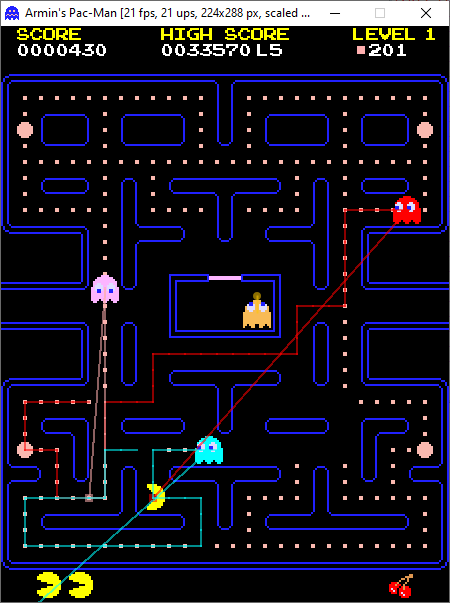
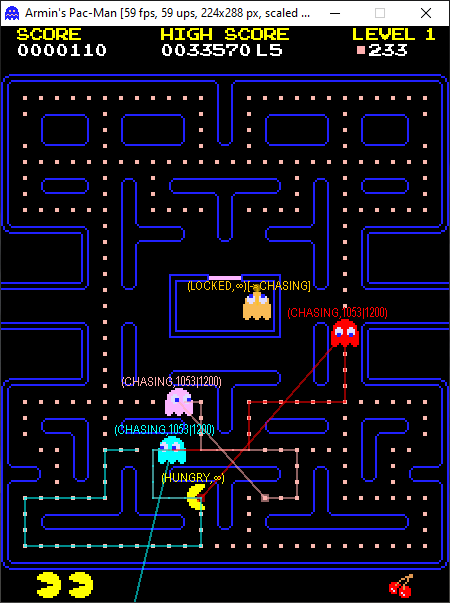
reworked & doc

diff --git a/PacManGame/src/main/java/de/amr/games/pacman/actor/behavior/HeadingForTile.java b/PacManGame/src/main/java/de/amr/games/pacman/actor/behavior/HeadingForTile.java
@@ -6,6 +6,7 @@ import static de.amr.graph.grid.impl.Top4.N;
 import static de.amr.graph.grid.impl.Top4.S;
 import static de.amr.graph.grid.impl.Top4.W;
 
+import java.util.Arrays;
 import java.util.Collections;
 import java.util.LinkedHashSet;
 import java.util.List;
@@ -14,7 +15,7 @@ import java.util.OptionalInt;
 import java.util.Set;
 import java.util.function.Supplier;
 import java.util.stream.Collectors;
-import java.util.stream.IntStream;
+import java.util.stream.Stream;
 
 import de.amr.games.pacman.actor.MazeMover;
 import de.amr.games.pacman.model.Maze;
@@ -26,43 +27,75 @@ import de.amr.graph.grid.impl.Top4;
  * "http://gameinternals.com/post/2072558330/understanding-pac-man-ghost-behavior">here</a>:
  *
  * <p>
- * The next step is understanding exactly how the ghosts attempt to reach their
- * target tiles. The ghosts’ AI is very simple and short-sighted, which makes
- * the complex behavior of the ghosts even more impressive. Ghosts only ever
- * plan one step into the future as they move about the maze. <br/>
- * Whenever a ghost enters a new tile, it looks ahead to the next tile that it
- * will reach, and makes a decision about which direction it will turn when it
- * gets there. These decisions have one very important restriction, which is
- * that ghosts may never choose to reverse their direction of travel. That is, a
- * ghost cannot enter a tile from the left side and then decide to reverse
- * direction and move back to the left. The implication of this restriction is
- * that whenever a ghost enters a tile with only two exits, it will always
- * continue in the same direction. </cite>
+ * The next step is understanding exactly how the ghosts attempt to reach their target tiles. The
+ * ghosts’ AI is very simple and short-sighted, which makes the complex behavior of the ghosts even
+ * more impressive. Ghosts only ever plan one step into the future as they move about the maze.
+ * <br/>
+ * Whenever a ghost enters a new tile, it looks ahead to the next tile that it will reach, and makes
+ * a decision about which direction it will turn when it gets there. These decisions have one very
+ * important restriction, which is that ghosts may never choose to reverse their direction of
+ * travel. That is, a ghost cannot enter a tile from the left side and then decide to reverse
+ * direction and move back to the left. The implication of this restriction is that whenever a ghost
+ * enters a tile with only two exits, it will always continue in the same direction. </cite>
  * </p>
  * 
  * @author Armin Reichert
  */
 class HeadingForTile implements Steering {
 
-	/*
-	 * Straight line distance (squared).
-	 */
+	/** Straight line distance (squared). */
 	private static int dist(Tile t1, Tile t2) {
 		int dx = t1.col - t2.col, dy = t1.row - t2.row;
 		return dx * dx + dy * dy;
 	}
 
+	/**
+	 * Computes the next move direction as described
+	 * <a href="http://gameinternals.com/understanding-pac-man-ghost-behavior">here.</a>
+	 * 
+	 * <p>
+	 * Note: We use separate parameters for the actor's move direction, tile and target tile instead of
+	 * the members of the actor itself because the {@link #computePathToTarget(MazeMover, Tile)} method
+	 * uses this method without actually placing the actor at each tile of the path.
+	 * 
+	 * @param actor
+	 *                      a actor (normally a ghost)
+	 * @param moveDir
+	 *                      the actor's current move direction
+	 * @param currentTile
+	 *                      the actor's current tile
+	 * @param targetTile
+	 *                      the actor's current target tile
+	 */
 	private static OptionalInt computeNextDir(MazeMover actor, int moveDir, Tile currentTile, Tile targetTile) {
 		/*@formatter:off*/
 		Maze maze = actor.maze;
-		return IntStream.of(N, W, S, E)
-			.filter(dir -> dir != NESW.inv(moveDir))
-			.mapToObj(dir -> maze.tileToDir(currentTile, dir))
-			.filter(tile -> actor.canEnterTile(currentTile, tile))
-			.sorted((t1, t2) -> Integer.compare(dist(t1, targetTile), dist(t2, targetTile)))
-			.mapToInt(neighborTile -> maze.direction(currentTile, neighborTile).getAsInt())
-			.findFirst();
+		List<Integer> candidates = Stream.of(N, W, S, E)
+				.filter(dir -> dir != NESW.inv(moveDir))
+				.filter(dir -> actor.canEnterTile(currentTile, maze.tileToDir(currentTile, dir)))
+				.collect(Collectors.toList());
 		/*@formatter:on*/
+		if (candidates.size() > 1) {
+			candidates.sort((d1, d2) -> {
+				Tile neighbor1 = maze.tileToDir(currentTile, d1), neighbor2 = maze.tileToDir(currentTile, d2);
+				int dist1 = dist(neighbor1, targetTile), dist2 = dist(neighbor2, targetTile);
+				if (dist1 != dist2) {
+					return Integer.compare(dist1, dist2);
+				}
+				/*
+				 * If two or more potential choices are an equal distance from the target, the decision between them
+				 * is made in the order of up > left > down. A decision to exit right can never be made in a
+				 * situation where two tiles are equidistant to the target, since any other option has a higher
+				 * priority.
+				 */
+				List<Integer> order = Arrays.asList(Top4.N, Top4.W, Top4.S, Top4.E);
+				return Integer.compare(order.indexOf(d1), order.indexOf(d2));
+			});
+		}
+		if (candidates.isEmpty()) {
+			throw new IllegalStateException("Could not determine next move direction");
+		}
+		return OptionalInt.of(candidates.get(0));
 	}
 
 	private static List<Tile> computePathToTarget(MazeMover actor, Tile targetTile) {
@@ -105,8 +138,6 @@ class HeadingForTile implements Steering {
 		/* Entering ghost house: move downwards at the ghost house door. */
 		if (actor.maze.inGhostHouse(actor.targetTile) && actor.maze.inFrontOfGhostHouseDoor(actorTile)) {
 			actor.nextDir = Top4.S;
-			actor.targetPath = actor.visualizeCompletePath ? computePathToTarget(actor, actor.targetTile)
-					: Collections.emptyList();
 			return;
 		}
 

diff --git a/PacManTests/src/main/java/de/amr/games/pacman/test/navigation/FollowFixedPathTestController.java b/PacManTests/src/main/java/de/amr/games/pacman/test/navigation/FollowFixedPathTestController.java
@@ -1,8 +1,10 @@
 package de.amr.games.pacman.test.navigation;
 
+import java.awt.event.KeyEvent;
 import java.util.Arrays;
 import java.util.List;
 
+import de.amr.easy.game.input.Keyboard;
 import de.amr.easy.game.view.View;
 import de.amr.easy.game.view.ViewController;
 import de.amr.games.pacman.actor.GhostState;
@@ -39,6 +41,7 @@ public class FollowFixedPathTestController implements ViewController {
 		g.blinky.setState(GhostState.CHASING);
 		g.theme.snd_ghost_chase().stop();
 		g.blinky.setBehavior(GhostState.CHASING, g.blinky.followingFixedPath(() -> targets.get(targetIndex)));
+		g.blinky.setBehavior(GhostState.FRIGHTENED, g.blinky.followingFixedPath(() -> targets.get(targetIndex)));
 	}
 
 	private void nextTarget() {
@@ -51,6 +54,13 @@ public class FollowFixedPathTestController implements ViewController {
 
 	@Override
 	public void update() {
+		if (Keyboard.keyPressedOnce(KeyEvent.VK_F)) {
+			g.blinky.setState(GhostState.FRIGHTENED);
+		}
+		if (Keyboard.keyPressedOnce(KeyEvent.VK_C)) {
+			g.blinky.setState(GhostState.CHASING);
+			g.theme.snd_ghost_chase().stop();
+		}
 		g.blinky.update();
 		if (g.blinky.currentTile().equals(targets.get(targetIndex))) {
 			nextTarget();

diff --git a/PacManGame/src/main/java/de/amr/games/pacman/actor/Ghost.java b/PacManGame/src/main/java/de/amr/games/pacman/actor/Ghost.java
@@ -144,7 +144,7 @@ public class Ghost extends Actor<GhostState> implements GhostBehaviors {
 			return getState() == DEAD || getState() != LOCKED && maze.inGhostHouse(currentTile());
 		}
 		if (maze.isNoUpIntersection(current) && tile == maze.tileToDir(current, Top4.N)) {
-			return false;
+			return getState() != GhostState.CHASING;
 		}
 		return super.canEnterTile(current, tile);
 	}
